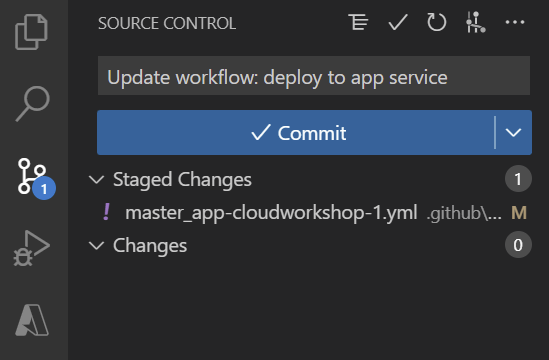
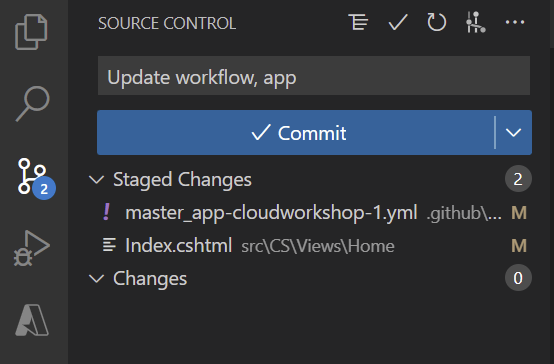
Update workflow, app

diff --git a/HOL step-by-step Guide.md b/HOL step-by-step Guide.md
@@ -368,6 +368,14 @@ Dec 2022
   <details>
   <summary>C#</summary>
 
+  - src/CS/Views/Home の Index.cshtml を選択
+
+    <img src="images/update-app-01.png" />
+  
+  - エディタでバージョン番号を変更
+
+    <img src="images/update-app-02.png" />
+
   </details>
 
   <details>
@@ -403,7 +411,13 @@ Dec 2022
 
    <img src="images/update-app-service-workflow-07.png" />
 
+- Azure ポータルで App Service の管理ブレードへアクセス
 
+- URL をクリック
+
+   <img src="images/update-app-service-workflow-07.png" />
+
+- 新しいタブでアプリケーションが開くので、アプリケーションが更新されていることを確認
 
 <br />
 
@@ -411,17 +425,71 @@ Dec 2022
 
 ### Task 1: ステージング環境の準備
 
+- Azure ポータルで App Service の管理ブレードへアクセス、"**デプロイ スロット**" を選択
+
+- "**+ スロットの追加**" をクリック
+
+  <img src="images/app-service-staging-slot-01.png" />
+
+- 名前に "**staging**" と入力し、"**追加**" をクリック
+
+  <img src="images/app-service-staging-slot-02.png" />
+
+- スロットが正常に追加されたことを確認
+
+  <img src="images/app-service-staging-slot-04.png" />
+
 <br />
 
 ### Task 2: ワークフローの修正
 
+- Visual Studio Code で、ワークフロー ファイルを選択しエディタで表示
+
+  <img src="images/update-app-service-workflow-02.png" />
+
+- uses: azure/webapps-deploy@v2 セクションで展開先の slot-name を Production から staging へ変更
+
+  <img src="images/app-service-staging-slot-05.png" />
+
 <br />
 
-### Task 3: ワークフローの実行
+### Task 3: アプリケーションの更新
+
+- ワークフローからの展開によりアプリケーションが更新されたことを確認するために、コードを修正
+
+  <details>
+  <summary>C#</summary>
+
+  - src/CS/Views/Home の Index.cshtml を選択
+
+    <img src="images/update-app-01.png" />
+  
+  - エディタでバージョン番号を変更
+
+    <img src="images/update-app-02.png" />
+
+  </details>
+
+  <details>
+  <summary>他の言語</summary>
+
+  </details>
+
+- サイドバーで Source Controle を選択し変更をコミット
+
+  <img src="images/update-app-service-workflow-03.png" />
+
+- GitHub リポジトリと同期
+
+  <img src="images/update-app-service-workflow-04.png" />
 
 <br />
 
-### Task 4: スワップ操作
+### Task 4: ワークフローの実行
+
+<br />
+
+### Task 5: スワップ操作
 
 <br />
 
